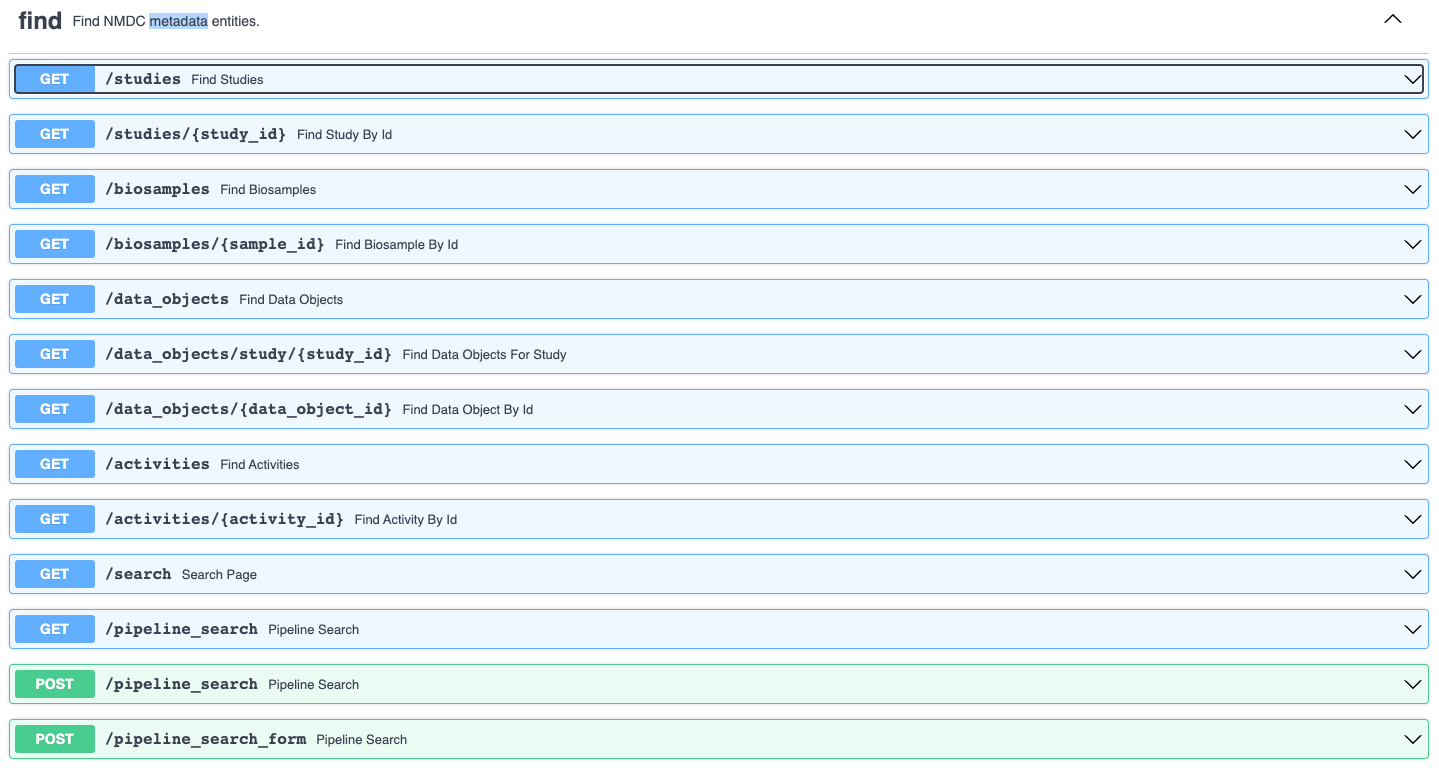
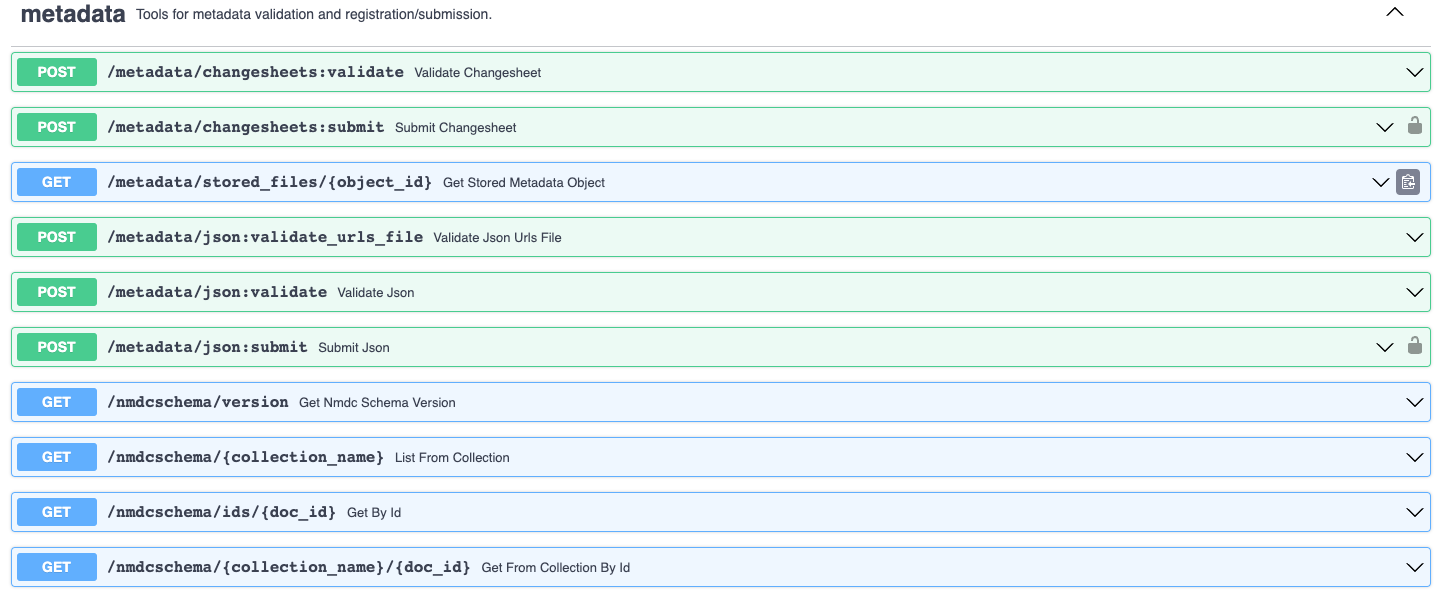
update api docs

Changed region(s): [[0.0, 0.0, 1.0, 1.0], [0.9479, 0.0, 0.9785, 0.0304]]

diff --git a/docs/howto_guides/api_gui.md b/docs/howto_guides/api_gui.md
@@ -1,21 +1,27 @@
 # Using the NMDC API Graphical User Interface (GUI)
 
-### Retrieving and/or Submitting Metadata using the Find and Metadata API Endpoints
+### Retrieving and Submitting Metadata using the ___Find___ and ___Metadata___ API Endpoints
 
-Metadata describing various NMDC entities (e.g. studies, biosamples, data objects, etc.) may be retrieved or submittied with GET and POST requests, respectively, using the **[NMDC API Graphical User Interface (GUI)](https://api.microbiomedata.org/docs#/)**. The API GUI provides an user interface for programmitc access to the NMDC data portal without needing to use the Command Line. Requests can include various parameters to filter, sort, and organize the requested information:
+Metadata describing various NMDC classes (e.g. studies, biosamples, data objects, etc.) may be retrieved or submittied with GET and POST requests, respectively, using the **[NMDC API Graphical User Interface (GUI)](https://api.microbiomedata.org/docs#/)**. The API GUI provides an user interface for programmitc access to the NMDC data portal without needing to use the Command Line. 
+
+
+#### Parameters
+
+Requests can include various parameters to filter, sort, and organize the requested information. Field names in the parameters will vary depending on the collection. For example, in the table below, the example filter fields of `ecosystem_category`, `part_of`, and `lat_lon.latitude` are specific to Biosamples and can only be used with Biosample related requests. It will return all biosamples with an ecosystem_category of Plants, that are part_of the study with an identifier of gold:Gs0103573, and have a latitude greater than 35. Please see the [NMDC schema documentation](https://microbiomedata.github.io/nmdc-schema/) to see applicable fields.
 
 | Parameter | Description | Syntax | Example |
 | :---: | :-----------: | :-------: | :---: |
-| filter | Allows conditions to be set as part of the query, returning only results that satisfy the conditions | Comma separated list of field:value pairs. Can include comparison operators like >=, <=, <, and > | ecosystem_category:Plants, part_of:gold:Gs0103573, lat_lon.latitude:>35.0
+| filter | Allows conditions to be set as part of the query, returning only results that satisfy the conditions | Comma separated list of field:value pairs. Can include comparison operators like >=, <=, <, and > | `ecosystem_category:Plants, part_of:gold:Gs0103573, lat_lon.latitude:>35.0`
 | search | Not yet implemented | Coming Soon | Not yet implemented
-| sort | Specifies the order in which the query returns the matching documents | Comma separated list of field:value pairs, Where value can be empty, asc, or desc (for ascending or descending order) | depth.has_numeric_value:desc, ecosystem_type
-| page | Specifies the desired page number among the paginated results | Integer | 3
-| per_page | Specifies the number of results returned per page. Maximum allowed is 200 | Integer | 50 |
+| sort | Specifies the order in which the query returns the matching documents | Comma separated list of field:value pairs, Where value can be empty, asc, or desc (for ascending or descending order) | `depth.has_numeric_value:desc, ecosystem_type`
+| page | Specifies the desired page number among the paginated results | Integer | `3`
+| per_page | Specifies the number of results returned per page. Maximum allowed is 200 | Integer | `50` |
 | cursor |
-| group_by | Not yet implemented | Coming Soon | Not yet implmented
+| group_by | Not yet implemented | Coming Soon | Not yet implmented |
+| collection_name | Specifies the collection of documents to examined. collection_name is similar to the class name in the [NMDC Schema](https://microbiomedata.github.io/nmdc-schema/). Please see below for a list of collection names | String | `biosample_set`
 
 
-#### The Find Endpoints
+#### ___Find___ Endpoints
 
 The [Find endpoints](https://api.microbiomedata.org/docs#/find:~:text=Find%20NMDC-,metadata,-entities.) are provided with NMDC metadata entites already specified - where metadata about studies, biosamples, data objects, and activities can be retrieved. 
 
@@ -23,26 +29,9 @@ The [Find endpoints](https://api.microbiomedata.org/docs#/find:~:text=Find%20NMD
 
 Add an overview of the Find Endpoints. Put in link to Find Endpoints (in header maybe?). How it works, what it does. The syntax it takes. See: https://api.microbiomedata.org/search
 
-A list of the Find entities and a brief description of what they do. Might not need because this is included on the swagger page next to all the endpoints Include links to the entities page (if possible)
+#### ___Metadata___ Endpoints
 
-- /studies
-- /studies/{study_id}
-- /biosamples
-- /biosamples/{sample_id}
-- /data_objects
-- /data_objects_study
+Include a list of collection names with nmdc schema links.
 
-A list of the parameters that can be used in the endpoints/entities and how they work, the strucutre. What goes in the box. Give examples.
 
-- filter
-- search
-- sort: sort by attribute
-- page
-- per_page
-- cursor
-- group_by: 
-
-for post:
-- pipeline_spec
-- description
 
